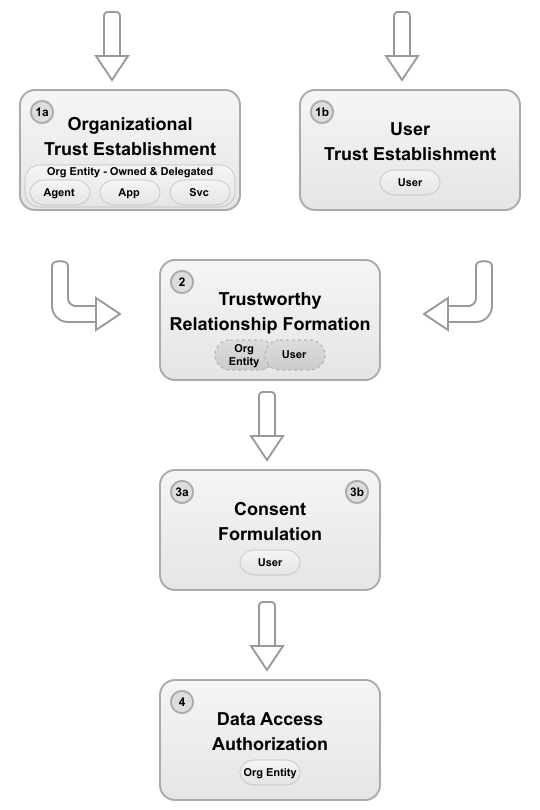
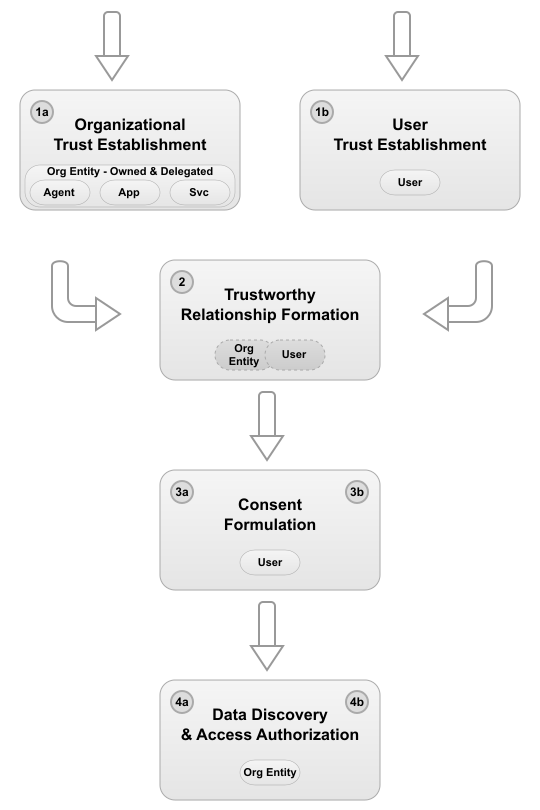
Updated the overview of web of trust by adding a diagram for the problem statement and by adding a data delivery phase

diff --git a/products/overview_web_of_trust/index.html b/products/overview_web_of_trust/index.html
@@ -12,7 +12,7 @@
 <link fetchpriority="low" href="/site.webmanifest" rel="manifest" />
 <title>Overview - Web of Trust – Bitscrafter</title>
   <meta name="description" content="
-Patent Pending Problem Statement Contextual data to deliver personalized experiences constitutes an essential need of modern digital ecosystems that increasingly rely on autonomous software entities—including AI agents, applications, and services. This data is often sensitive and belongs to specific entities (persons, organizations). However, enabling these autonomous entities to access such data at scale, in a secure manner and while preserving privacy, presents fundamental challenges that existing industry standards fail to adequately address." /><link rel="canonical" href="https://bitscrafter.com/products/overview_web_of_trust/" itemprop="url" />
+Patent Pending Problem Statement Contextual data to deliver personalized experiences constitutes an essential need of modern digital ecosystems that increasingly rely on autonomous software entities—including AI agents, applications, and services. This data is often sensitive and owned by individuals or organizations. However, enabling these autonomous entities to access such data dynamically at scale, in a secure manner, and while preserving privacy and transparency across multi-entity operations, presents fundamental challenges that existing industry standards fail to adequately address." /><link rel="canonical" href="https://bitscrafter.com/products/overview_web_of_trust/" itemprop="url" />
 
 <meta property="og:title" content="Overview - Web of Trust" />
 <meta property="og:description" content="
@@ -24,20 +24,20 @@ Patent Pending Problem Statement Contextual data to deliver personalized experie
 Problem Statement
     Contextual data to deliver personalized experiences constitutes an essential need of modern digital ecosystems that
 increasingly rely on autonomous software entities—including AI agents, applications, and services. This data is often
-sensitive and belongs to specific entities (persons, organizations). However, enabling these autonomous entities to
-access such data at scale, in a secure manner and while preserving privacy, presents fundamental challenges that
-existing industry standards fail to adequately address." />
+sensitive and owned by individuals or organizations. However, enabling these autonomous entities to access such data
+dynamically at scale, in a secure manner, and while preserving privacy and transparency across multi-entity operations,
+presents fundamental challenges that existing industry standards fail to adequately address." />
 <meta property="og:type" content="article" />
 <meta property="og:url" content="https://bitscrafter.com/products/overview_web_of_trust/" /><meta property="article:section" content="products" />
 
 
 
   <meta itemprop="name" content="Overview - Web of Trust">
-  <meta itemprop="description" content="Patent Pending Problem Statement Contextual data to deliver personalized experiences constitutes an essential need of modern digital ecosystems that increasingly rely on autonomous software entities—including AI agents, applications, and services. This data is often sensitive and belongs to specific entities (persons, organizations). However, enabling these autonomous entities to access such data at scale, in a secure manner and while preserving privacy, presents fundamental challenges that existing industry standards fail to adequately address.">
-  <meta itemprop="wordCount" content="2410">
+  <meta itemprop="description" content="Patent Pending Problem Statement Contextual data to deliver personalized experiences constitutes an essential need of modern digital ecosystems that increasingly rely on autonomous software entities—including AI agents, applications, and services. This data is often sensitive and owned by individuals or organizations. However, enabling these autonomous entities to access such data dynamically at scale, in a secure manner, and while preserving privacy and transparency across multi-entity operations, presents fundamental challenges that existing industry standards fail to adequately address.">
+  <meta itemprop="wordCount" content="2540">
   <meta name="twitter:card" content="summary">
   <meta name="twitter:title" content="Overview - Web of Trust">
-  <meta name="twitter:description" content="Patent Pending Problem Statement Contextual data to deliver personalized experiences constitutes an essential need of modern digital ecosystems that increasingly rely on autonomous software entities—including AI agents, applications, and services. This data is often sensitive and belongs to specific entities (persons, organizations). However, enabling these autonomous entities to access such data at scale, in a secure manner and while preserving privacy, presents fundamental challenges that existing industry standards fail to adequately address.">
+  <meta name="twitter:description" content="Patent Pending Problem Statement Contextual data to deliver personalized experiences constitutes an essential need of modern digital ecosystems that increasingly rely on autonomous software entities—including AI agents, applications, and services. This data is often sensitive and owned by individuals or organizations. However, enabling these autonomous entities to access such data dynamically at scale, in a secure manner, and while preserving privacy and transparency across multi-entity operations, presents fundamental challenges that existing industry standards fail to adequately address.">
 
     <link rel="preload" href="/css/compiled/main.min.aa6bcb31c04adbd6e5a581154dbf626f84b09192ce4cd2b45b0238f776d5fc22.css" as="style" integrity="sha256-qmvLMcBK29blpYEVTb9ib4SwkZLOTNK0WwI493bV/CI=" />
     <link href="/css/compiled/main.min.aa6bcb31c04adbd6e5a581154dbf626f84b09192ce4cd2b45b0238f776d5fc22.css" rel="stylesheet" integrity="sha256-qmvLMcBK29blpYEVTb9ib4SwkZLOTNK0WwI493bV/CI=" />
@@ -316,9 +316,33 @@ existing industry standards fail to adequately address." />
 <h2>Problem Statement<span class="hx-absolute -hx-mt-20" id="problem-statement"></span>
     <a href="#problem-statement" class="subheading-anchor" aria-label="Permalink for this section"></a></h2><p>Contextual data to deliver personalized experiences constitutes an essential need of modern digital ecosystems that
 increasingly rely on autonomous software entities—including AI agents, applications, and services. This data is often
-sensitive and belongs to specific entities (persons, organizations). However, enabling these autonomous entities to
-access such data at scale, in a secure manner and while preserving privacy, presents fundamental challenges that
-existing industry standards fail to adequately address.</p>
+sensitive and owned by individuals or organizations. However, enabling these autonomous entities to access such data
+dynamically at scale, in a secure manner, and while preserving privacy and transparency across multi-entity operations,
+presents fundamental challenges that existing industry standards fail to adequately address.</p>
+<p>Three fundamental challenges prevent autonomous entities from operating securely at scale:</p>
+<p><figure>
+    <img src="/images/products/wot/wot_problem_statement.png" title="Figure 1 - Problem Statement" alt="Figure 1" loading="lazy" />
+    <figcaption>Figure 1 - Problem Statement</figcaption>
+  </figure></p>
+<ul>
+<li>
+<p><strong>Scalable Dynamic Data-Access</strong>: Agents dynamically encounter new data sources during operation based on evolving
+processing needs, making pre-established relationships increasingly impractical to scale when serving millions of
+users across potentially hundreds or thousands of data providers</p>
+</li>
+<li>
+<p><strong>On-the-Fly Trust Verification</strong>: Without pre-established trust credentials, each data provider must independently
+verify an autonomous entity&rsquo;s legitimacy and trustworthiness on-the-fly prior to authorizing data access, but
+traditional manual verification processes cannot scale to real-time requirements, creating redundant overhead and
+operational bottlenecks across data providers</p>
+</li>
+<li>
+<p><strong>Multi-Entity Data-Processing Transparency</strong>: Autonomous operations typically involve multiple entities working
+together—agents coordinating with third-party services, LLMs, and data processors—yet users lack visibility into this
+processing chain, cannot grant granular permissions to each participant, or maintain accountability for operations
+across the ecosystem</p>
+</li>
+</ul>
 <p><strong>AI Agent View</strong>
 Autonomous entities face a critical operational constraint: they must access sensitive data from numerous providers to
 function effectively, yet each provider requires confidence in the entity&rsquo;s trustworthiness. Traditional approaches
@@ -326,34 +350,21 @@ require manual registration with each data provider—establishing credentials, 
 access terms. This model fails at scale: an agent serving millions of users cannot feasibly pre-register with every
 potential data source, especially when processing requirements emerge dynamically during operation.</p>
 <p><strong>User View</strong>
-Users face a trust evaluation challenge before engaging any autonomous entity: they must assess whether a previously
-unknown agent is legitimate, identify its controlling organization, understand its security practices, and determine if
-it merits access to sensitive data. Current approaches lack mechanisms for presenting verifiable evidence of an agent&rsquo;s
-trustworthiness and organizational backing. Without this foundational trust assessment, users cannot make informed
-decisions about establishing relationships, yet subsequent data sharing consent decisions depend entirely on this
-initial determination.</p>
+Users face dual challenges when engaging autonomous entities. First, before granting data access, they must evaluate an
+unknown agent&rsquo;s legitimacy, organizational backing, and security practices—yet lack mechanisms to verify these claims.
+Second, users remain unaware of the complete processing chain, exposing their data to unknown third-party services,
+LLMs, and processors without explicit consent. This opacity prevents assessing privacy risks or establishing
+accountability, leaving users unable to protect their privacy or exercise meaningful control.</p>
 <p><strong>Data Provider View</strong>
 Data providers face a real-time verification challenge: they must dynamically evaluate an entity&rsquo;s trustworthiness at
 the moment of first data access request, often without prior relationship or interaction history. Current approaches
 lack common industry-adopted, programmatic mechanisms to verify an unknown entity&rsquo;s legitimacy, organizational backing,
 and user authorization in real-time. This forces data providers to choose between denying access (blocking legitimate
 use cases) or implementing manual registration processes that cannot scale for autonomous operations.</p>
-<p>These challenges become acute in autonomous operations where:</p>
-<ul>
-<li>Data Discovery: Agents dynamically encounter new data sources during operation based on evolving processing needs,
-making the scaling of pre-established relationships increasingly impractical when serving millions of users across
-potentially hundreds or thousands of data providers</li>
-<li>Entity Trustworthiness: Without pre-established trust credentials, each data provider must independently verify an
-autonomous entity&rsquo;s legitimacy and trustworthiness on-the-fly prior to authorizing data access, thus creating
-redundant verification overhead across data providers</li>
-<li>Multi-Entity Collaboration: Autonomous operations typically involve multiple entities working together—agents
-coordinating with third-party services, LLMs, and data processors—yet users lack visibility into this collaboration
-chain, cannot grant granular permissions to each participant, or maintain accountability for operations across the
-ecosystem</li>
-</ul>
-<p>Solving these challenges requires a comprehensive framework that enables dynamic trust establishment, real-time
+<p>Solving these three interconnected challenges—scalable dynamic data access, on-the-fly trust verification, and
+multi-entity transparency—requires a comprehensive framework that enables dynamic trust establishment, real-time
 verification, and transparent multi-entity coordination while maintaining user control and cryptographic accountability
-throughout the data lifecycle</p>
+throughout the data lifecycle.</p>
 <h2>System Overview<span class="hx-absolute -hx-mt-20" id="system-overview"></span>
     <a href="#system-overview" class="subheading-anchor" aria-label="Permalink for this section"></a></h2><p>The Web of Trust (WoT) system addresses the challenges outlined in the problem statement by creating a comprehensive
 framework for managing trust, relationships, consent, and data access across organizations, users, autonomous entities,
@@ -363,8 +374,8 @@ Chains, OpenID Federation) with OAuth2/OIDC protocols while extending them to su
 operations, explicit multi-party relationships, granular consent management, and cryptographically accountable data
 access throughout the entire lifecycle.</p>
 <p><figure>
-    <img src="/images/products/wot/wot_system_overview_black-white-gray.png" title="System Overview" alt="System Overview" loading="lazy" />
-    <figcaption>System Overview</figcaption>
+    <img src="/images/products/wot/wot_system_overview_black-white-gray.png" title="Figure 2 - System Overview" alt="Figure 2" loading="lazy" />
+    <figcaption>Figure 2 - System Overview</figcaption>
   </figure></p>
 <h3>Details<span class="hx-absolute -hx-mt-20" id="details"></span>
     <a href="#details" class="subheading-anchor" aria-label="Permalink for this section"></a></h3><p>The diagram illustrates WoT&rsquo;s end-to-end operation through four interconnected phases:</p>
@@ -395,10 +406,16 @@ deny, or conditionally approve consent with fine-grained control over data shari
 interface, which serves as the actual authorization mechanism for data access. WoT&rsquo;s consent layer acts as an
 enhancement wrapper around this traditional OAuth2 consent, providing multi-entity visibility and trustworthiness
 assessment.</p>
-<p><strong>4. Data Access Authorization:</strong> After user consent is obtained, WoT authorizes organizational entities to access the
-specified user data. WoT retrieves data from user-authorized sources, validates that the requesting entity&rsquo;s credentials
-and session are current and valid, verifies the access complies with consent parameters and relationship constraints,
-and securely delivers the data through end-to-end encrypted channels. Every data access operation is cryptographically
+<p><strong>4a. Data Discovery (Optional):</strong> After consent is obtained, organizational entities may query WoT to discover what
+data types are available for specific users within their established relationship. WoT returns available data types
+based on the user&rsquo;s connected data providers and the granted consent permissions, allowing entities to proactively
+determine data availability before requesting access. Entities that already know the specific data types they need may
+skip discovery and proceed directly to data access, though they will only learn of data unavailability when the access
+request returns an unavailable response.</p>
+<p><strong>4b. Data Access Authorization:</strong> With consent in place, WoT authorizes organizational entities to access the specified user data.
+WoT retrieves data from user-authorized sources, validates that the requesting entity&rsquo;s credentials and session are
+current and valid, verifies the access complies with consent parameters and relationship constraints, and securely
+delivers the data through end-to-end encrypted channels. Metadata of every data access operation is cryptographically
 logged for auditability, enabling users to review which entities accessed what data types and when, with the ability to
 revoke access or modify consent at any time.</p>
 <p>This integrated approach ensures that trust flows seamlessly from external verification through relationship formation,
@@ -409,8 +426,8 @@ accountability and user sovereignty over their data and digital relationships.</
 third-party entities provide trust services), Identity &amp; Relationships (where organizations and users establish verified
 identities and relationships), and Web of Trust (where WoT mediates relationships, consent, and data access).</p>
 <p><figure>
-    <img src="/images/products/wot/wot_participating_entities_black-white-gray.png" title="Entities" alt="Entities" loading="lazy" />
-    <figcaption>Entities</figcaption>
+    <img src="/images/products/wot/wot_participating_entities_black-white-gray.png" title="Figure 3 - Participating Entities" alt="Entities" loading="lazy" />
+    <figcaption>Figure 3 - Participating Entities</figcaption>
   </figure></p>
 <h3>Entity Categories<span class="hx-absolute -hx-mt-20" id="entity-categories"></span>
     <a href="#entity-categories" class="subheading-anchor" aria-label="Permalink for this section"></a></h3><p>The participating entities are organized into two primary categories:</p>
@@ -435,7 +452,7 @@ access. Users have:</p>
 <ul>
 <li>Cryptographic proof of user verification (biometric or PIN confirmation)</li>
 <li>Device possession verification (authenticator security)</li>
-<li>Explicit consent binding (user presence confirmation)</li>
+<li>Explicit consent binding (cryptographically tied to user verification)</li>
 </ul>
 <p>Users may undergo optional identity verification through external providers, with verification status affecting which
 relationship types they can establish. Even without formal verification, FIDO2 authentication establishes cryptographic
